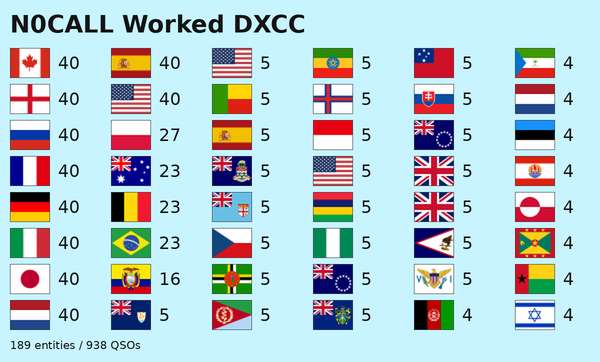
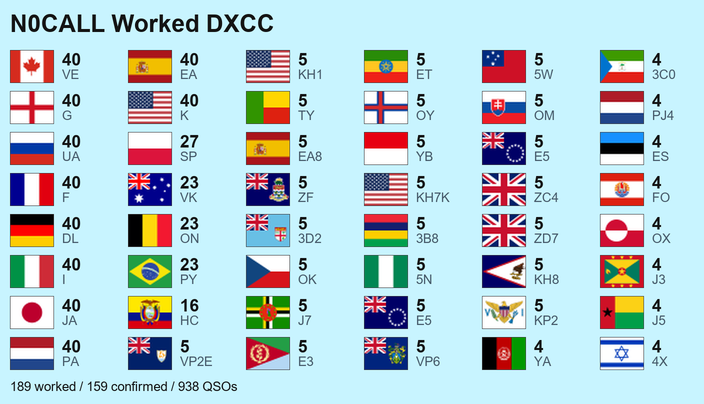
Place QSOs without a DXCC field from the callsign (cty.dat)
For ADIF from loggers that omit DXCC: scripts/apply_cty.py now also writes
data/prefixes.json (4,819 prefixes, 2,787 exact calls, WAE records mapped
to their DXCC parents), and data.entity_by_call handles portable forms
(KH6/W1AW, W1AW/KH6, /P, /MM) plus the KG4 Guantanamo rule. Order is now
DXCC field (0 = no entity), callsign, country name.

Checked against a real 5,209-QSO Wavelog log: 99.87% of QSOs agree with
Wavelog's stored entity and the totals are identical with DXCC stripped.
Cloudlog has no ADIF export API, so README points Cloudlog users at ADIF.
Example images regenerated with the current look.

diff --git a/scripts/apply_cty.py b/scripts/apply_cty.py
@@ -20,12 +20,19 @@ import json
 import re
 from pathlib import Path
 
-DATA = Path(__file__).resolve().parents[1] / "src" / "wavelog_flagmap" / "data" / "dxcc_entities.json"
+DATA_DIR = Path(__file__).resolve().parents[1] / "src" / "wavelog_flagmap" / "data"
+DATA = DATA_DIR / "dxcc_entities.json"
+PREFIXES = DATA_DIR / "prefixes.json"
+
+# WAE-only cty.dat records (prefix starting with '*') belong to these DXCC entities.
+WAE_PARENT = {"4U1V": 206, "GM/S": 279, "IG9": 248, "IT9": 248, "JW/B": 259, "TA1": 390}
+_MODIFIERS = re.compile(r"[(\[<{~].*$")
 
 # DXCC number -> cty.dat primary prefix, where names and prefixes disagree.
 ALIASES: dict[int, str] = {
     24: "3Y/B", 199: "3Y/P", 111: "VK0H", 117: "4U1I", 289: "4U1U", 125: "CE0Z", 217: "CE0X",
     192: "JD/O", 204: "XF4", 216: "HK0/A", 253: "PY0S", 273: "PY0T", 230: "DL", 414: "9Q",
+    10: "FT/Z", 41: "FT/W", 124: "FT/J",
 }
 
 
@@ -39,19 +46,39 @@ def norm(s: str) -> str:
     return re.sub(r"[^a-z0-9]", "", s)
 
 
-def parse_cty(text: str) -> list[dict]:
+def parse_cty(text: str, *, include_wae: bool = False) -> list[dict]:
+    """Records: name, prefix, continent, lat, lon (east positive), wae, aliases (raw strings)."""
     out = []
     for rec in text.split(";"):
-        head = rec.strip().split("\n", 1)[0]
+        head, _, body = rec.strip().partition("\n")
         parts = [p.strip() for p in head.split(":")]
         if len(parts) < 8 or not parts[0]:
             continue
         name, _cq, _itu, cont, lat, lon, _tz, prefix = parts[:8]
-        if prefix.startswith("*"):
+        wae = prefix.startswith("*")
+        if wae and not include_wae:
             continue  # WAE / CQ-only entity, not DXCC
-        out.append({"name": name, "prefix": prefix.upper(), "continent": cont,
-                    "lat": float(lat), "lon": -float(lon)})
+        aliases = [a.strip() for a in body.replace("\n", "").split(",") if a.strip()]
+        out.append({"name": name, "prefix": prefix.lstrip("*").upper(), "continent": cont,
+                    "lat": float(lat), "lon": -float(lon), "wae": wae, "aliases": aliases})
     return out
+
+
+def prefix_table(records: list[dict], dxcc_of: dict[str, int]) -> dict[str, dict[str, int]]:
+    """{"p": {prefix: dxcc}, "c": {exact callsign: dxcc}} from the cty.dat alias lists."""
+    table: dict[str, dict[str, int]] = {"p": {}, "c": {}}
+    for r in records:
+        code = WAE_PARENT.get(r["prefix"]) if r["wae"] else dxcc_of.get(r["prefix"])
+        if code is None:
+            print(f"  no DXCC entity for cty.dat record {r['prefix']} {r['name']}")
+            continue
+        for alias in r["aliases"]:
+            a = _MODIFIERS.sub("", alias).upper()
+            if a.startswith("="):
+                table["c"][a[1:]] = code
+            elif a:
+                table["p"][a] = code
+    return table
 
 
 def main() -> int:
@@ -65,6 +92,7 @@ def main() -> int:
     by_name = {norm(c["name"]): c for c in cty}
 
     rows = json.loads(DATA.read_text(encoding="utf-8"))
+    dxcc_of: dict[str, int] = {}  # cty.dat primary prefix -> DXCC number
     hit = miss = 0
     unmatched = []
     for r in rows:
@@ -74,12 +102,18 @@ def main() -> int:
             miss += 1
             unmatched.append(f'{r["dxcc"]:>4} {r["prefix"]:<6} {r["name"]}')
             continue
+        if c["prefix"] in dxcc_of:
+            print(f'  cty.dat record {c["prefix"]} matched twice: DXCC {dxcc_of[c["prefix"]]} and {r["dxcc"]}')
+        dxcc_of[c["prefix"]] = r["dxcc"]
         if r["dxcc"] not in KEEP:
             r["lat"], r["lon"] = round(c["lat"], 2), round(c["lon"], 2)
         r["prefix"] = c["prefix"].split("/")[0]  # the familiar prefix (VE, not VA); "3Y/B" -> "3Y"
         hit += 1
     DATA.write_text(json.dumps(rows, indent=0, separators=(",", ":")))  # same format as build_data.py
-    print(f"cty.dat records: {len(cty)}  entities updated: {hit}  unmatched: {miss}")
+    table = prefix_table(parse_cty(Path(args.cty).read_text(encoding="latin-1"), include_wae=True), dxcc_of)
+    PREFIXES.write_text(json.dumps(table, sort_keys=True, separators=(",", ":")))
+    print(f"cty.dat records: {len(cty)}  entities updated: {hit}  unmatched: {miss}  "
+          f"prefixes: {len(table['p'])}  exact calls: {len(table['c'])}")
     if args.report:
         print("\n".join(unmatched))
     return 0

diff --git a/tests/test_core.py b/tests/test_core.py
@@ -11,13 +11,13 @@ ADIF = """header text
 <adif_ver:5>3.1.4<eoh>
 <call:4>W1AW<dxcc:3>291<country:24>United States of America<lotw_qsl_rcvd:1>Y<eor>
 <call:5>DL1AB<country:7>Germany<eor>
-<call:5>XX9ZZ<country:11>Nowhereland<eor>
+<call:4>Q1ZZ<country:11>Nowhereland<eor>
 """
 
 
 def test_parse_adif_skips_header_and_reads_fields():
     recs = list(parse_adif(ADIF))
-    assert [r["call"] for r in recs] == ["W1AW", "DL1AB", "XX9ZZ"]
+    assert [r["call"] for r in recs] == ["W1AW", "DL1AB", "Q1ZZ"]
     assert recs[0]["dxcc"] == "291"
 
 
@@ -34,10 +34,10 @@ def test_entities_loaded_and_flags_present():
     assert data.flag_path("gb-sct") is not None
 
 
-def test_count_entities_dxcc_number_then_country_name_fallback():
+def test_count_entities_dxcc_number_then_callsign_fallback():
     counts, skipped = stats.count_entities(parse_adif(ADIF))
     assert counts[291].qsos == 1 and counts[291].confirmed == 1
-    assert counts[230].qsos == 1 and counts[230].confirmed == 0   # matched by name: Germany
+    assert counts[230].qsos == 1 and counts[230].confirmed == 0   # no DXCC field: callsign DL -> Germany
     assert skipped == 1
 
 
@@ -220,3 +220,22 @@ def test_map_views_and_edge_entities_stay_inside():
 def test_cli_map_view_and_grid_labels(tmp_path):
     rc = cli.main(["--adif", str(SAMPLE), "-o", str(tmp_path), "--map-view", "full", "--grid-labels", "none"])
     assert rc == 0
+
+
+def test_entity_by_call_prefixes_portables_and_overrides():
+    def call(c):
+        e = data.entity_by_call(c)
+        return e.dxcc if e else None
+    assert call("W1AW") == 291
+    assert call("KH6/W1AW") == 110 and call("W1AW/KH6") == 110       # Hawaii either way round
+    assert call("EA8/DL1ABC") == 29 and call("DL1ABC/P") == 230
+    assert call("VE3XYZ/4") == 1 and call("KL7XX") == 6
+    assert call("KG4AA") == 105 and call("KG4ABC") == 291            # Guantanamo is KG4 + 2 letters only
+    assert call("W1AW/MM") is None and call("Q1ZZ") is None
+
+
+def test_count_entities_respects_explicit_dxcc_zero_and_country_last():
+    adif = ("<call:6>W1AW/M<dxcc:1>0<eor>"                       # logger says: no entity
+            "<call:4>Q1ZZ<country:7>Germany<eor>")                # unknown call, country name wins
+    counts, skipped = stats.count_entities(parse_adif(adif))
+    assert skipped == 1 and list(counts) == [230]

diff --git a/src/wavelog_flagmap/data.py b/src/wavelog_flagmap/data.py
@@ -49,3 +49,47 @@ def land_polygons() -> list[list[list[float]]]:
 def flag_path(iso: str) -> Path | None:
     p = DATA_DIR / "flags" / f"{iso}.png"
     return p if iso and p.exists() else None
+
+
+@lru_cache(maxsize=1)
+def _prefixes() -> tuple[dict[str, int], dict[str, int], int]:
+    t = json.loads((DATA_DIR / "prefixes.json").read_text(encoding="utf-8"))
+    return t["p"], t["c"], max(map(len, t["p"]), default=1)
+
+
+# Portable suffixes that never change the entity ("/MM" and "/AM" mean no DXCC entity at all).
+_SUFFIXES = {"P", "M", "QRP", "A", "R", "LH", "J", "B", "QRPP", "LGT", "PM", "T", "X"}
+
+
+def entity_by_call(call: str) -> Entity | None:
+    """DXCC entity for a callsign from cty.dat prefixes (fallback when a QSO has no DXCC field).
+
+    Handles exact-call overrides (e.g. special event and island stations) and prefixed or
+    suffixed portable calls such as KH6/W1AW, W1AW/KH6 and DL1ABC/P. /MM and /AM return None.
+    """
+    prefixes, calls, longest = _prefixes()
+    call = call.strip().upper()
+    if not call:
+        return None
+    code = calls.get(call)
+    if code is None:
+        parts = [p for p in call.split("/") if p]
+        if any(p in ("MM", "AM") for p in parts[1:]):
+            return None
+        parts = [p for i, p in enumerate(parts) if i == 0 or (p not in _SUFFIXES and not p.isdigit())]
+        if not parts:
+            return None
+        if len(parts) == 1:
+            base = parts[0]
+        else:  # the shorter part is the operating prefix: KH6/W1AW, W1AW/KH6, EA8/DL1ABC
+            base = min(parts[:2], key=len)
+        code = calls.get(base)
+        if code is None:
+            for n in range(min(len(base), longest), 0, -1):
+                code = prefixes.get(base[:n])
+                if code is not None:
+                    break
+        # Guantanamo Bay is only ever KG4 + two letters; other KG4 calls are ordinary US calls
+        if code == 105 and base.startswith("KG4") and len(base) != 5:
+            code = 291
+    return entities().get(code) if code is not None else None

diff --git a/src/wavelog_flagmap/stats.py b/src/wavelog_flagmap/stats.py
@@ -55,11 +55,14 @@ def count_entities(qsos: Iterable[dict[str, str]], confirmed_by: Iterable[str] =
     skipped = 0
     for rec in qsos:
         entity = None
-        raw = rec.get("dxcc", "")
-        if raw.isdigit() and int(raw) in ents:
-            entity = ents[int(raw)]
-        elif rec.get("country"):
-            entity = data.entity_by_name(rec["country"])
+        raw = rec.get("dxcc", "").strip()
+        if raw:  # an explicit DXCC field wins; 0 means "no entity" (e.g. /MM)
+            entity = ents.get(int(raw)) if raw.isdigit() else None
+        else:  # loggers that omit DXCC: callsign prefix (cty.dat), then country name
+            if rec.get("call"):
+                entity = data.entity_by_call(rec["call"])
+            if entity is None and rec.get("country"):
+                entity = data.entity_by_name(rec["country"])
         if entity is None:
             skipped += 1
             continue

diff --git a/README.md b/README.md
@@ -12,9 +12,11 @@ where JavaScript and iframes won't work: the output is plain PNG files.
 
 ## Features
 
-- Reads your log from the **Wavelog API** (no database access needed) or from any **ADIF file**.
-- Counts QSOs **or confirmed QSOs** (LoTW / QSL / eQSL) per DXCC entity.
-- Real DXCC entities, not just countries: Hawaii, Scotland, Sicily and so on, each with its own flag.
+- Reads your log from the **Wavelog API** (no database access needed) or from an **ADIF file exported by any
+  logger** (Log4OM, N1MM+, HRD, DXKeeper, Cloudlog, QRZ Logbook, Club Log, LoTW...).
+- Counts QSOs **or confirmed QSOs** (LoTW / QSL / eQSL / QRZ / Club Log, your choice) per DXCC entity.
+- Real DXCC entities, not just countries: Alaska, Hawaii, Scotland, the Canary Islands and so on.
+  QSOs without a DXCC field are placed from the callsign (AD1C cty.dat prefixes and exception list).
 - Fully offline rendering. Flags and map data are bundled, with no CDN calls.
 - Writes `dxcc-grid.png`, `dxcc-map.png` and `dxcc-stats.json`, replacing files atomically so a web server never serves a half-written image.
 - Light and dark themes.
@@ -119,6 +121,11 @@ See [`examples/config.example.yaml`](examples/config.example.yaml). Common optio
 | `map.width`, `map.flag_w`, `map.flag_h` | map image size and flag size (defaults 1600, 36x27: sized to look right when a QRZ bio shows the map at ~800 px) |
 
 ## Limitations
+
+- QSOs are placed by their ADIF `DXCC` field when present (Wavelog and most loggers fill it in).
+  Without it, the entity comes from the callsign. That matches the logger's own assignment for about
+  99.9% of QSOs; the exceptions are mostly US hams who moved but kept a KL7, KH6 or KP4 call.
+- Cloudlog has no full-log export API, so Cloudlog users export an ADIF file instead.
 
 - Map flag positions are the AD1C cty.dat reference points for each entity (one point per entity,
   so large countries show a single flag). Flags in crowded regions (Europe, Caribbean) are spread

diff --git a/CLAUDE.md b/CLAUDE.md
@@ -28,7 +28,11 @@ Owner: Neal (KR4HBQ). Intended audience: any Wavelog user, so nothing may be har
    `view: cropped` (78N..56S, default) or `full`, flags 36x27, kept in bounds, footer in its own strip under the map.
 3. Entity coordinates now come from AD1C cty.dat (`scripts/apply_cty.py <cty.dat>` after build_data.py; matches by
    name, ALIASES prefix table, then prefix; KEEP = Canada/Antarctica stay on Natural Earth points). cty.dat is not bundled.
-   Re-run when cty.dat adds entities. Also copies the primary prefix. cty.dat is MIT (country-files.com/copyright), notice in LICENSES/cty-dat-MIT.txt.
+   Re-run when cty.dat adds entities. Also copies the primary prefix and writes
+   data/prefixes.json (prefix + exact-call table; WAE records mapped via WAE_PARENT) for `data.entity_by_call`,
+   used when a QSO has no DXCC field (order: DXCC field, callsign, country name; DXCC 0 = no entity).
+   Matches Wavelog on 99.87% of a real 5k-QSO log; misses are moved KL7/KH6/KP4 hams (Big CTY has more
+   exact calls if that ever matters). Cloudlog has no ADIF export API (checked 2026-11-25). cty.dat is MIT (country-files.com/copyright), notice in LICENSES/cty-dat-MIT.txt.
 4. Some entities have no flag (`zz`): grey placeholder. Consider special icons (UN, SMOM, ITU).
 5. Hosting: `.github/workflows/publish.yml` (nightly, GitHub Pages, config only via repo vars/secret, skipped when
    `vars.WAVELOG_URL` is unset; keepalive re-enables itself against the 60-day schedule shutoff; the API call succeeds, whether it

diff --git a/THIRD_PARTY_NOTICES.md b/THIRD_PARTY_NOTICES.md
@@ -5,6 +5,6 @@
 | Flag images (`data/flags/*.png`, rendered from SVG) | [flag-icons](https://github.com/lipis/flag-icons) | MIT |
 | DXCC entity list, ISO country codes (`data/dxcc_entities.json`) | [k0swe/dxcc-json](https://github.com/k0swe/dxcc-json) | Apache-2.0 (derived from the ARRL DXCC Current/Deleted list, edition 2026-01) |
 | Map base (`data/land.json`); fallback coordinates for Canada and Antarctica | [Natural Earth](https://www.naturalearthdata.com/) | Public domain |
-| Entity latitude/longitude and primary prefixes (`data/dxcc_entities.json`) | Jim Reisert AD1C, [cty.dat country file](https://www.country-files.com/) | MIT ([terms](https://www.country-files.com/copyright/)); derived values only, cty.dat itself is not bundled |
+| Entity latitude/longitude and primary prefixes (`data/dxcc_entities.json`); prefix and callsign table (`data/prefixes.json`) | Jim Reisert AD1C, [cty.dat country file](https://www.country-files.com/) | MIT ([terms](https://www.country-files.com/copyright/)); derived values only, cty.dat itself is not bundled |
 
 `scripts/build_data.py` regenerates these files. Full license texts for the bundled data are in [`LICENSES/`](LICENSES/) (Apache-2.0 requires shipping a copy; MIT requires keeping the notice). `data/dxcc_entities.json` is a modified subset of the upstream dxcc.json with added map coordinates (from cty.dat via `scripts/apply_cty.py`).
